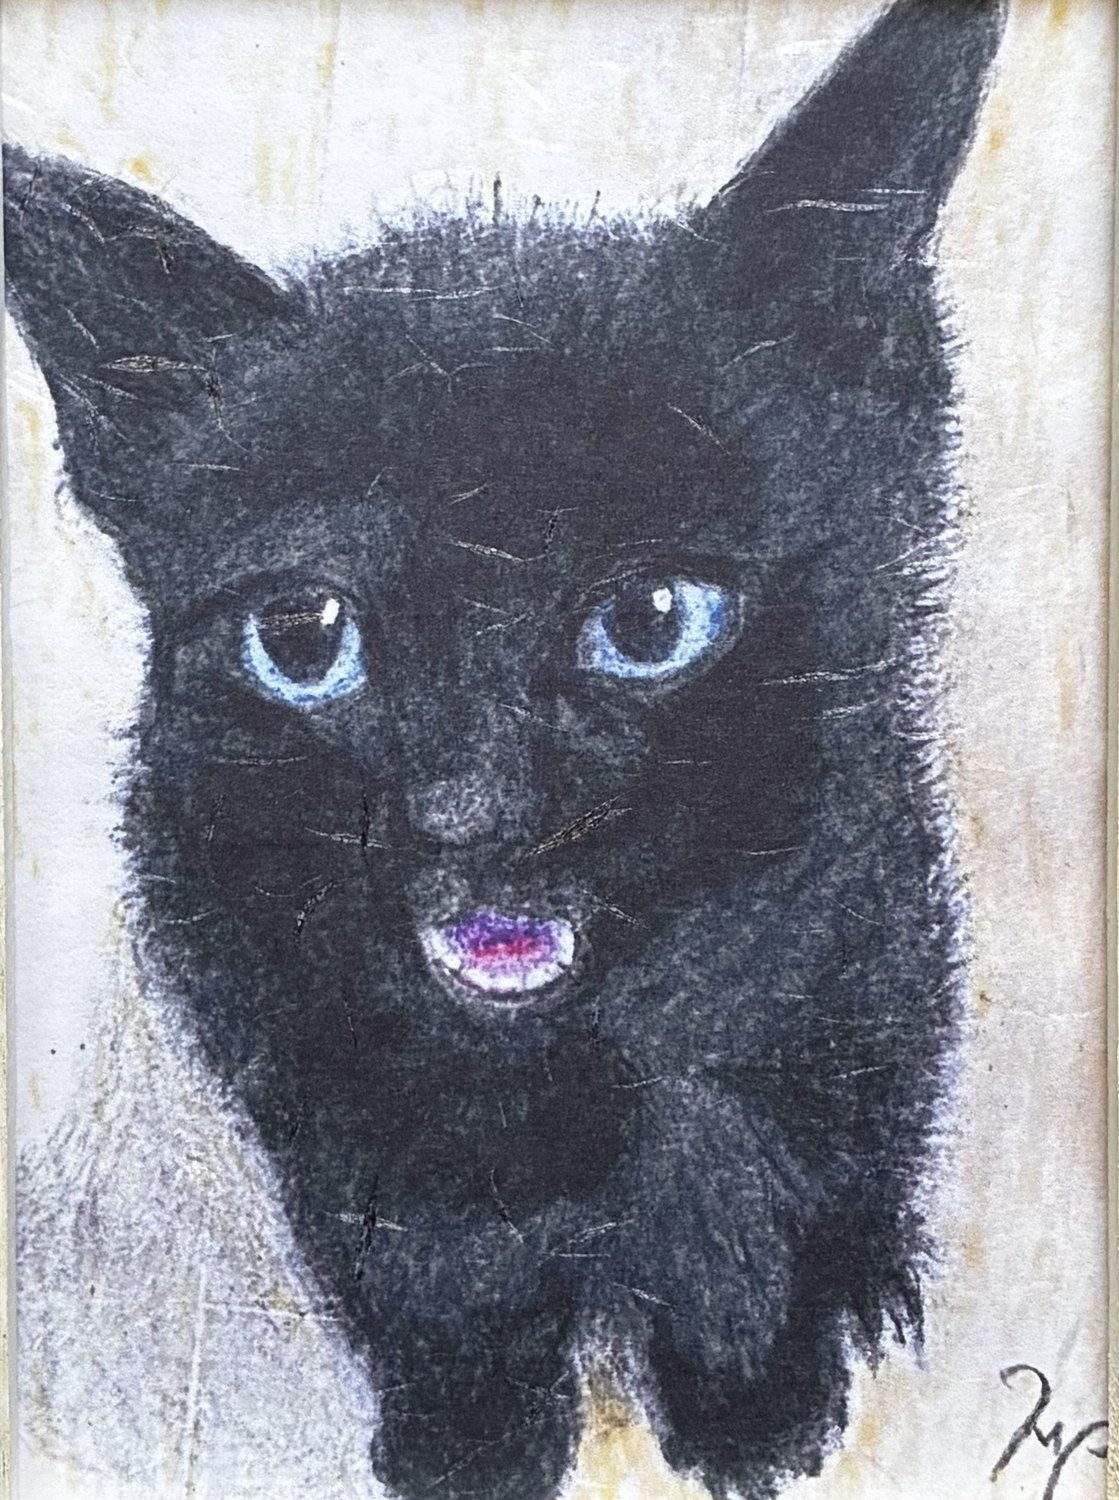
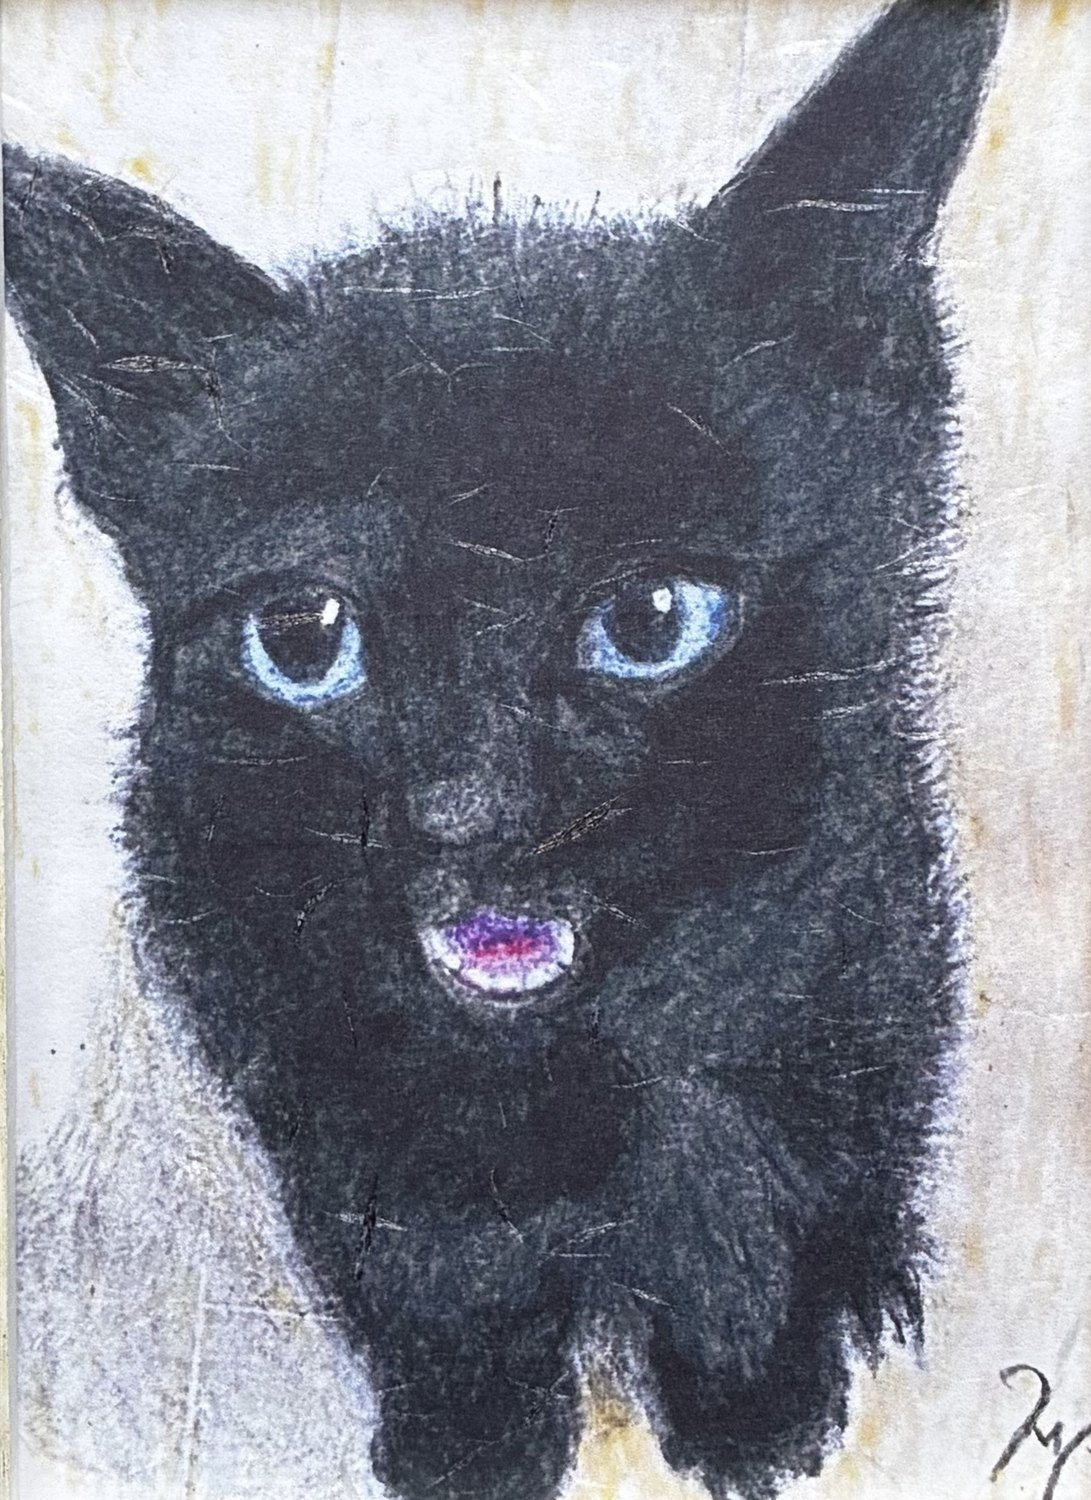
メールアプリが無い端末でも申し込めるよう、内容表示とコピー機能を追加

diff --git a/index.html b/index.html
@@ -329,7 +329,32 @@ input:focus, textarea:focus, select:focus { outline: 2px solid #c7a294; outline-
   color: #fff; background: #8a4b3c; border: none; border-radius: 2px; cursor: pointer;
 }
 .submit:hover { background: #743d31; }
-.form__note { margin-top: 14px; font-size: 13px; font-weight: 400; color: #7d7166; }
+.form__note { margin-top: 14px; font-size: 13px; font-weight: 400; color: #7d7166; line-height: 1.8; }
+.result {
+  margin-top: 26px; padding: 20px 20px 22px;
+  background: #f6f2ea; border: 1px solid #d9cfc0;
+}
+.result__head {
+  margin: 0 0 12px; font-size: 16px; font-weight: 700; color: #1f1b18; letter-spacing: .06em;
+}
+.result__text {
+  width: 100%; background: #fff; border: 1px solid #d7cec1; border-radius: 2px;
+  padding: 12px; font-family: inherit; font-size: 14px; font-weight: 400;
+  line-height: 1.8; color: #2b2724; resize: vertical;
+}
+.result__btns { display: flex; gap: 10px; margin-top: 14px; flex-wrap: wrap; }
+.result__btn {
+  flex: 1 1 200px; text-align: center; text-decoration: none;
+  padding: 14px 16px; border-radius: 2px; cursor: pointer;
+  font-family: inherit; font-size: 15px; font-weight: 700; letter-spacing: .04em;
+  background: #fff; color: #8a4b3c; border: 1px solid #c7a294;
+}
+.result__btn--main { background: #8a4b3c; color: #fff; border-color: #8a4b3c; }
+.result__btn--main:hover { background: #743d31; }
+.result__btn--done { background: #4f7a52; border-color: #4f7a52; color: #fff; }
+.result__to { margin: 16px 0 0; font-size: 15px; font-weight: 700; color: #1f1b18; }
+.result__to a { color: #8a4b3c; word-break: break-all; }
+.result__note { margin: 10px 0 0; font-size: 13px; font-weight: 400; color: #6d6156; line-height: 1.8; }
 .hidden { display: none; }
 
 /* ============ フッター ============ */
@@ -524,7 +549,7 @@ footer {
       <p class="series__note">横向きの作品から順に並んでいます</p>
       <div class="grid">
       <figure class="card card--yoko" data-code="CAT-01">
-        <button type="button" class="card__img" data-full="images/CAT-01.jpg" data-fulltitle="おじゃまします" data-code="CAT-01" aria-label="おじゃまします を大きく見る"><img src="images/CAT-01.jpg" alt="猫の絵「おじゃまします」" loading="lazy" width="1500" height="964"></button>
+        <button type="button" class="card__img" data-full="images/CAT-01.jpg" data-fulltitle="おじゃまします" data-code="CAT-01" aria-label="おじゃまします を大きく見る"><img src="images/CAT-01.jpg" alt="猫の絵「おじゃまします」" loading="lazy" width="1500" height="1022"></button>
         <figcaption class="card__body">
           <p class="card__title">おじゃまします</p>
           <div class="card__meta">
@@ -716,7 +741,7 @@ footer {
         </figcaption>
       </figure>
       <figure class="card card--tate" data-code="CAT-13">
-        <button type="button" class="card__img" data-full="images/CAT-13.jpg" data-fulltitle="にゃ〜〜" data-code="CAT-13" aria-label="にゃ〜〜 を大きく見る"><img src="images/CAT-13.jpg" alt="猫の絵「にゃ〜〜」" loading="lazy" width="1119" height="1500"></button>
+        <button type="button" class="card__img" data-full="images/CAT-13.jpg" data-fulltitle="にゃ〜〜" data-code="CAT-13" aria-label="にゃ〜〜 を大きく見る"><img src="images/CAT-13.jpg" alt="猫の絵「にゃ〜〜」" loading="lazy" width="1091" height="1500"></button>
         <figcaption class="card__body">
           <p class="card__title">にゃ〜〜</p>
           <div class="card__meta">
@@ -1108,8 +1133,19 @@ footer {
         <textarea id="message" name="message" placeholder="ご質問やご要望がありましたらご記入ください"></textarea>
       </div>
 
-      <button type="submit" class="submit">この内容で申し込む</button>
-      <p class="form__note">送信ボタンを押すと、ご入力内容を差し込んだメールが立ち上がります。そのままお送りください。<br>うまく立ち上がらない場合は、お手数ですが <a href="mailto:kumiko1129nabe@yahoo.co.jp">kumiko1129nabe@yahoo.co.jp</a> まで直接ご連絡ください。</p>
+      <button type="submit" class="submit">お申し込み内容をつくる</button>
+      <p class="form__note">押すと、下にお申し込み内容が表示されます。メールアプリで送るか、内容をコピーしてお送りください。</p>
+
+      <div class="result hidden" id="result">
+        <p class="result__head">この内容でお申し込みください</p>
+        <textarea class="result__text" id="resultText" readonly rows="12"></textarea>
+        <div class="result__btns">
+          <button type="button" class="result__btn result__btn--main" id="btnCopy">内容をコピーする</button>
+          <a class="result__btn" id="btnMail" href="#">メールアプリで送る</a>
+        </div>
+        <p class="result__to">送り先　<a href="mailto:kumiko1129nabe@yahoo.co.jp" id="mailToText">kumiko1129nabe@yahoo.co.jp</a></p>
+        <p class="result__note">「内容をコピーする」を押してから、お使いのメールアプリ（Gmail・Yahooメールなど）を開き、上の宛先に貼り付けてお送りください。<br>「メールアプリで送る」が反応しない場合は、コピーしてお送りいただく方が確実です。</p>
+      </div>
     </form>
   </div>
 </section>
@@ -1257,9 +1293,38 @@ footer {
     L.push("【ご連絡事項】" + val("message"));
     var body = L.join("\n");
     var subject = "【お申し込み】" + kind + "／" + val("name") + "様";
-    location.href = "mailto:" + MAIL_TO
+
+    var box = document.getElementById("result");
+    document.getElementById("resultText").value = body;
+    document.getElementById("btnMail").href = "mailto:" + MAIL_TO
       + "?subject=" + encodeURIComponent(subject)
       + "&body=" + encodeURIComponent(body);
+    box.classList.remove("hidden");
+    box.scrollIntoView({ behavior: "smooth", block: "start" });
+  });
+
+  /* ---- 内容をコピー ---- */
+  var btnCopy = document.getElementById("btnCopy");
+  btnCopy.addEventListener("click", function () {
+    var ta = document.getElementById("resultText");
+    var done = function () {
+      btnCopy.textContent = "コピーしました";
+      btnCopy.classList.add("result__btn--done");
+      setTimeout(function () {
+        btnCopy.textContent = "内容をコピーする";
+        btnCopy.classList.remove("result__btn--done");
+      }, 2600);
+    };
+    var fallback = function () {
+      ta.select(); ta.setSelectionRange(0, 99999);
+      try { document.execCommand("copy"); done(); }
+      catch (e) { alert("うまくコピーできませんでした。文面を長押しして選び、コピーしてください。"); }
+    };
+    if (navigator.clipboard && navigator.clipboard.writeText) {
+      navigator.clipboard.writeText(ta.value).then(done, fallback);
+    } else {
+      fallback();
+    }
   });
 
   /* ---- 作品の拡大表示 ---- */
